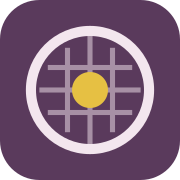
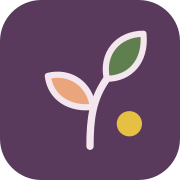
Nouvelle identité : signature « lumispira » et symbole feuilles-soleil
- Logo principal : signature en minuscules, soleil sur le i (en-tête, pied de page)
- Symbole deux feuilles et un soleil pour favicon, icône iPhone et logo.png
- Image de partage par défaut refaite avec la nouvelle identité

Claude-Session: https://claude.ai/code/session_01PecZ8MZVPd5DmSUuUWLD6D

diff --git a/src/styles/global.css b/src/styles/global.css
@@ -76,8 +76,13 @@ p { margin: 0 0 1em; }
 /* ── En-tête ───────────────────────────────────────────── */
 .site-header { border-bottom: 1px solid var(--line); background: var(--paper); position: sticky; top: 0; z-index: 20; }
 .site-header .wrap { display: flex; align-items: center; justify-content: space-between; gap: 1.5rem; min-height: 68px; }
-.logo { font-family: var(--f-display); font-size: 1.5rem; text-decoration: none; display: flex; align-items: center; gap: .55rem; }
-.logo svg { width: 26px; height: 26px; }
+.logo { font-family: var(--f-display); font-size: 1.85rem; text-decoration: none; display: flex; align-items: center; color: var(--ink); line-height: 1; padding-top: .2rem; }
+.logo:hover { color: var(--plum); }
+.wordmark { letter-spacing: -.025em; white-space: nowrap; }
+.wm-i { position: relative; display: inline-block; }
+.wm-sun, .wm-dot { position: absolute; left: 50%; transform: translateX(-50%); }
+.wm-sun { width: .6em; height: .6em; top: -.26em; }
+.wm-dot { width: .34em; height: .34em; top: -.08em; }
 .nav { display: flex; gap: 1.5rem; align-items: center; }
 .nav a { text-decoration: none; font-size: var(--t-sm); color: var(--ink-soft); padding: .35rem 0; border-bottom: 2px solid transparent; }
 .nav a:hover, .nav a[aria-current='page'] { color: var(--ink); border-color: var(--herb); }
@@ -303,7 +308,8 @@ p { margin: 0 0 1em; }
 .site-footer li { margin-bottom: .45rem; }
 .site-footer a { color: var(--on-plum-soft); text-decoration: none; }
 .site-footer a:hover { color: var(--pollen); }
-.footer-brand .logo { color: var(--on-plum); margin-bottom: .75rem; }
+.footer-brand .logo { color: var(--on-plum); margin-bottom: .9rem; font-size: 2.1rem; }
+.footer-brand .logo:hover { color: var(--pollen); }
 .footer-brand p { max-width: 34ch; }
 .footer-bottom { border-top: 1px solid var(--plum-line); margin-top: 2.5rem; padding-top: 1.25rem; display: flex; justify-content: space-between; flex-wrap: wrap; gap: 1rem; font-size: var(--t-xs); }
 @media (max-width: 860px) { .footer-grid { grid-template-columns: 1fr 1fr; } }
